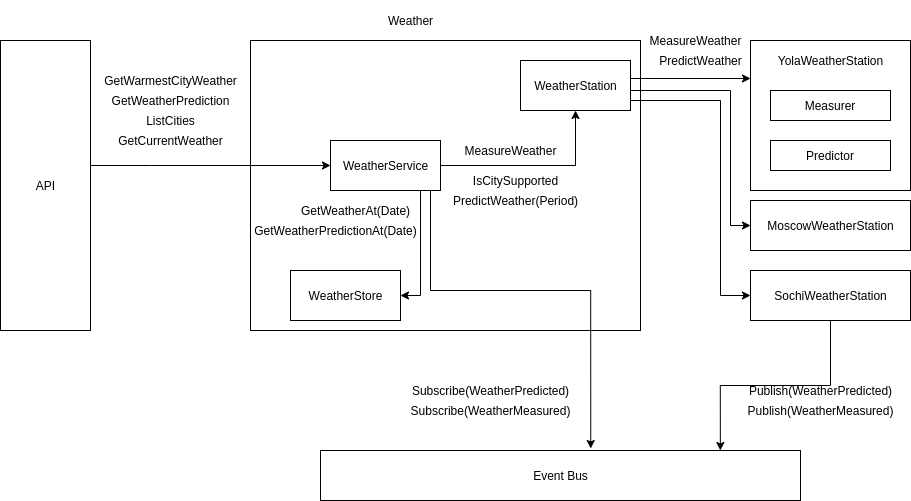
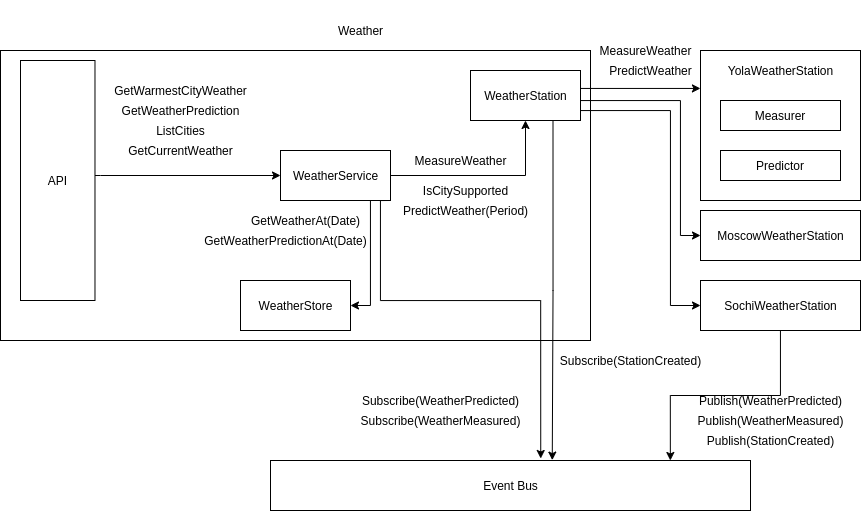
Поправил описание

diff --git a/src/weather/README.md b/src/weather/README.md
@@ -7,6 +7,8 @@
 ![Use Cases](/src/weather/docs/use_case.png)
 
 ## Компоненты
+Приложение представляет из себя три компонента. Основной сервис Weather, он будет аггрегировать данные по всем регионам. Второстепенные сервисы *WeatherStation, которые будут для своего региона предоставлять информацию по погоде. И шина обмена данными EventBus.
+
 ![Use Cases](/src/weather/docs/components.png)
 
 ## Процесс получения погоды
